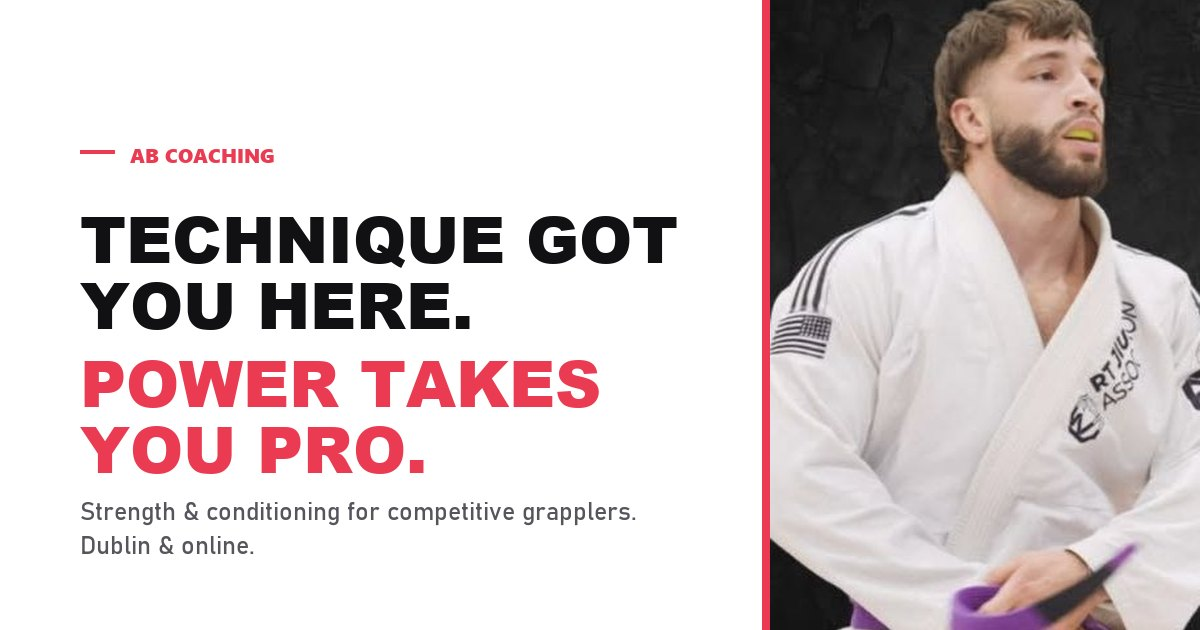
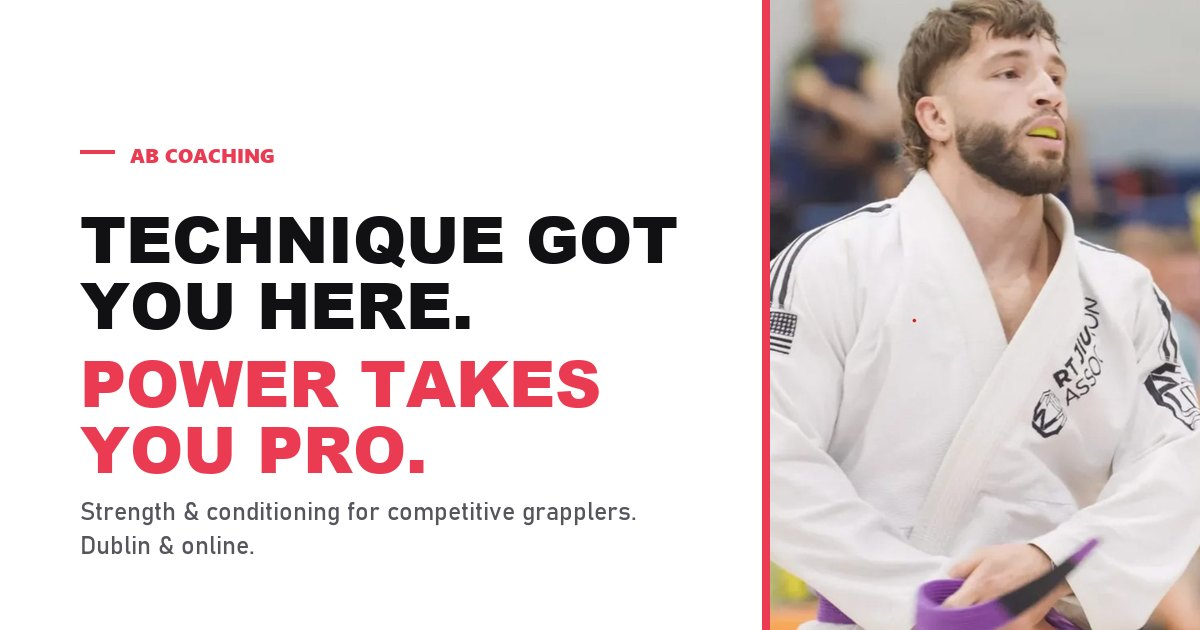
Replace hero image with high-res original
Marcus supplied the clean original of the shot the hero was already
using. The previous file was a 328px Instagram scrape being upscaled at
every breakpoint; this is 714x1150, so it renders at 1.9-2.7x density
instead of below 1x.

- Cropped to the existing 0.62 slot ratio so the layout is unchanged
- Social share card rebuilt from the same higher-quality source
- Dropped the superseded augusto-gi.jpg

diff --git a/index.html b/index.html
@@ -103,8 +103,8 @@
           </div>
         </div>
         <div class="hero__photo">
-          <img src="/images/augusto-gi.jpg" width="328" height="528" fetchpriority="high"
-               alt="Augusto Baronio in a white gi and purple belt, tying his belt before rolling.">
+          <img src="/images/augusto-hero.jpg" width="714" height="1150" fetchpriority="high"
+               alt="Augusto Baronio in a white gi and purple belt at a competition, tying his belt before a match.">
           <span class="hero__tag">Augusto Baronio &middot; Coach</span>
         </div>
       </div>
